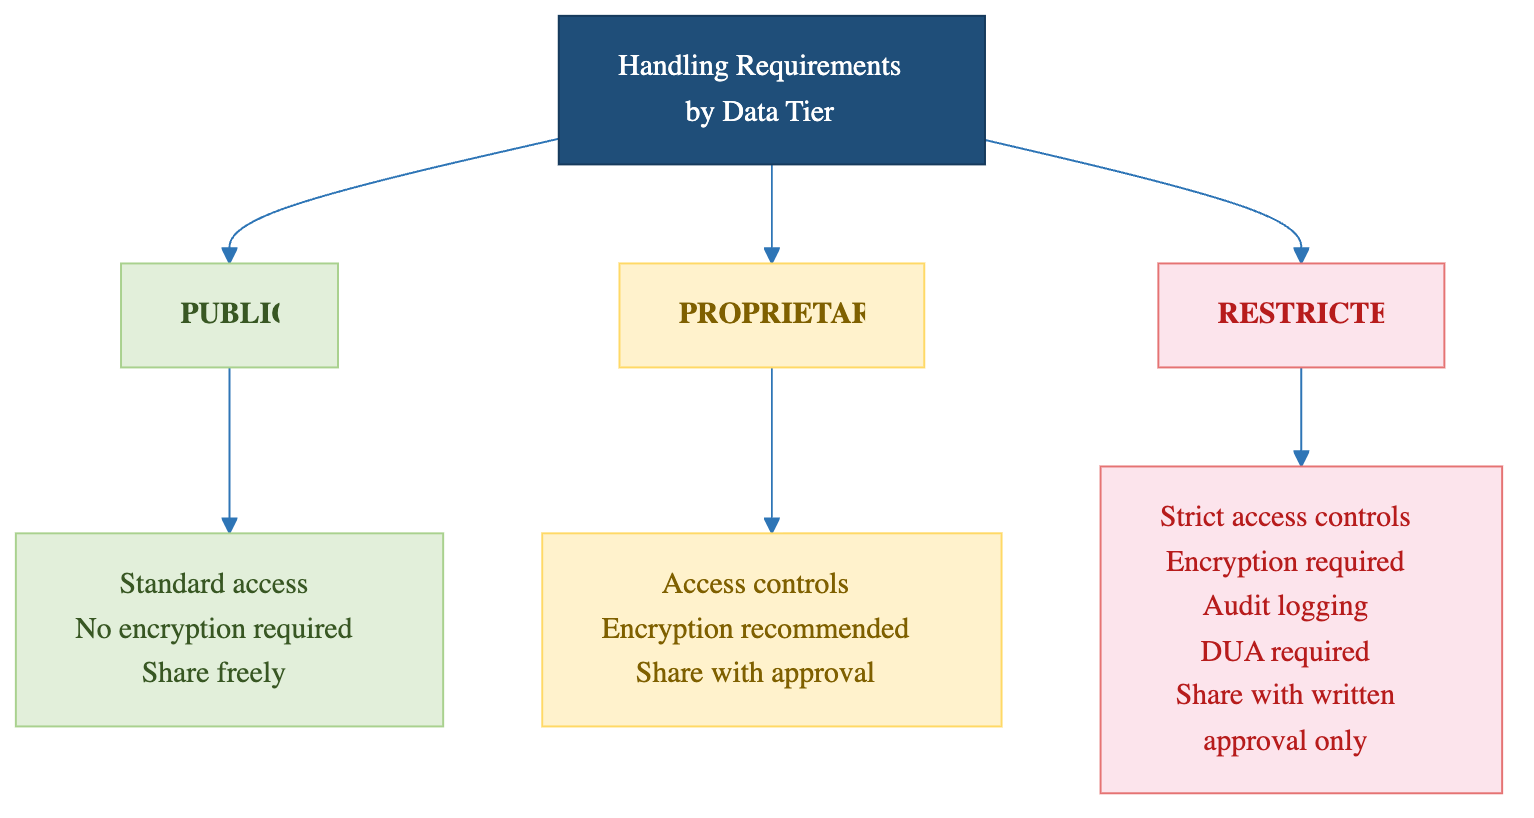
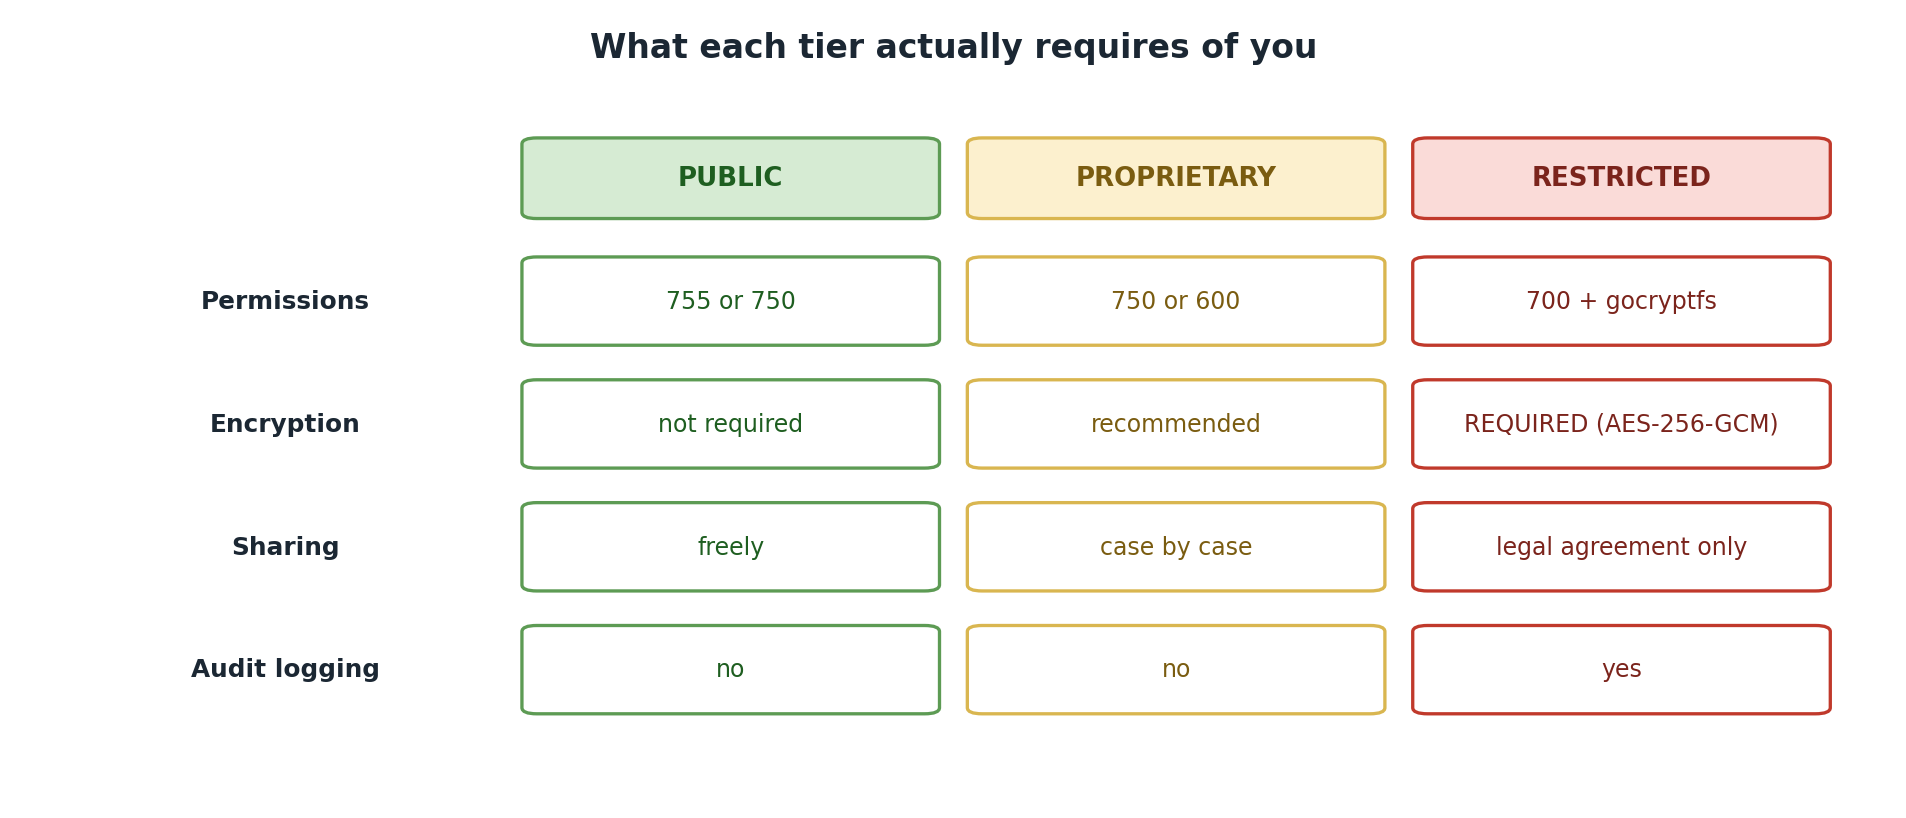
Rebuild the four diagrams, and drop the generation they replaced
Eight of the workshop's nine images were unreferenced, so the workshop that
teaches the classification tiers had no diagram of them.

All four had text clipped by the shapes around it -- the tier labels rendered
as PUBLI, PROPRIETA and RESTRICTE. Redrawn with the permissions, encryption
and sharing rules from the workshop's own reference table, so the diagrams and
the text now agree.

Also removes classification-decision-tree and data-classification-tiers, PNG
and SVG, which the numbered set replaced.

diff --git a/episodes/03-three-tiers-overview.md b/episodes/03-three-tiers-overview.md
@@ -20,6 +20,8 @@ exercises: 15
 
 Data classification at Pomona College follows a simple principle: **the more sensitive the data, the more security controls it requires**. The three tiers stack on top of each other; Restricted data includes all protections of Proprietary and Public.
 
+![Three tiers, and what each one obliges you to do.](fig/01-classification-tiers.png){alt='The three data tiers side by side. PUBLIC includes published papers, course materials, open-source code and open datasets, using chmod 755 or 750 with no encryption required. PROPRIETARY includes grant proposals, pre-publication data, trade secrets and personnel records, using chmod 750 or 600 with encryption recommended. RESTRICTED includes personal data under FERPA, health data under HIPAA, genetic data and government CUI, using chmod 700 plus gocryptfs with AES-256-GCM encryption required.'}
+
 ## Tier 1: PUBLIC
 
 **Definition:** Data that has been intentionally released for unrestricted use and is freely available to anyone, or data shared openly within Pomona College and authorized groups with no special risk of harm if accessed.

diff --git a/episodes/11-sharing-collaboration.md b/episodes/11-sharing-collaboration.md
@@ -24,6 +24,8 @@ Research is collaborative. You need to share data with PhD students at other uni
 
 ::::::::::::::::::::::::::::::::::::: callout
 
+![Classify before you share, not after someone asks.](fig/04-sharing-workflow.png){alt='A flow beginning when someone asks for your data. Classify it first, then follow the tier: PUBLIC can be shared freely; PROPRIETARY needs PI approval and then a secure transfer; RESTRICTED needs IRB approval and a data use agreement, and may only travel over an encrypted channel. A warning says never to email RESTRICTED data or leave it in a shared folder to sort out later.'}
+
 ## Quick Reference: What Can Be Shared?
 
 | Classification | Can Share? | Restrictions |

diff --git a/episodes/05-classification-process.md b/episodes/05-classification-process.md
@@ -32,6 +32,8 @@ Classifying data is not a one-time event; it's an ongoing process as your resear
 5. Monitor and re-classify as needed
 ```
 
+![The same four questions, answered differently for each tier.](fig/03-handling-matrix.png){alt='A table of handling requirements by tier. Permissions: 755 or 750 for PUBLIC, 750 or 600 for PROPRIETARY, 700 plus gocryptfs for RESTRICTED. Encryption: not required, recommended, and required with AES-256-GCM. Sharing: freely, case by case, and only under a legal agreement. Audit logging: no, no, and yes.'}
+
 ## Step 1: Inventory Your Data
 
 Before you can classify, you need to know what you have.

diff --git a/episodes/06-decision-framework.md b/episodes/06-decision-framework.md
@@ -60,6 +60,8 @@ START: New dataset or file
 │   NO → PUBLIC (freely available or shared openly within lab/groups)
 ```
 
+![Stop at the first question you answer yes to.](fig/02-classification-decision.png){alt='A decision tree. If the data is personal, health or genetic data about people, it is RESTRICTED. If it is covered by FERPA, HIPAA or export control, it is RESTRICTED. If it is unpublished, confidential or commercially sensitive, it is PROPRIETARY. Otherwise it is PUBLIC.'}
+
 ## Decision Documentation
 
 Once you've classified, **document your decision**. This serves two purposes:
